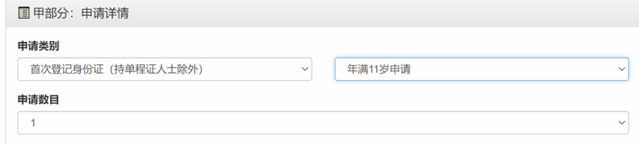
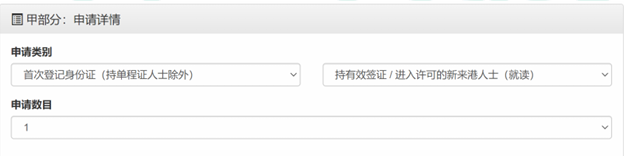
GITBOOK-118: No subject

diff --git a/freshman-guide/course-selection/ug5-requirements/english-enhancement.md b/freshman-guide/course-selection/ug5-requirements/english-enhancement.md
@@ -82,10 +82,7 @@ description: English Language Enhancement
 {% hint style="warning" %}
 雅思、托福网考成绩要求所有单项在同一次考试中取得。
 
-同时，有**部分学院**对雅思、托福成绩的取得时间有要求。比如：
-
-* 有学院（如商学院）要求 “须为 2 年前的 8 月 1 日之后、获港大录取之前取得”；或者，
-* 有学院（如计算与数据科学学院）要求 “须为 2 年以内、获港大录取当年的 8 月 1 日之前取得”；
+同时，有**部分学院**对雅思、托福成绩的取得时间有要求：如商学院、计算与数据科学学院要求 “须为 2 年以内、获港大录取当年的 8 月 1 日之前取得”。
 
 具体标准请参考学院规定，或联系学院确认。
 {% endhint %}
@@ -137,6 +134,6 @@ CAES1001 课程采用合格（P）/ 不合格（F）/ 优异（DI）等评定，
 
 本文作者：香港大学内地本科生权益保障组（RIC）。
 
-最后更新于 2026 年 7 月 25 日。
+最后更新于 2026 年 8 月 9 日。
 
 本文在知识共享 署名—非商业性使用—禁止演绎 4.0 协议（[CC BY-NC-ND 4.0](https://creativecommons.org/licenses/by-nc-nd/4.0/deed.zh-hans)）下提供。
